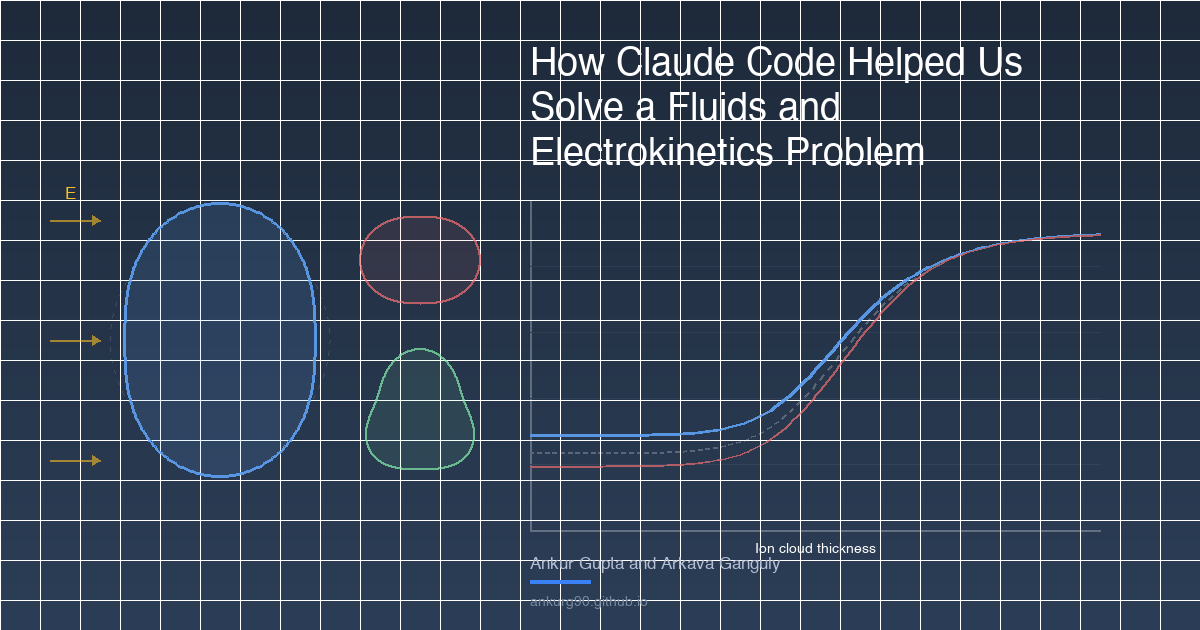
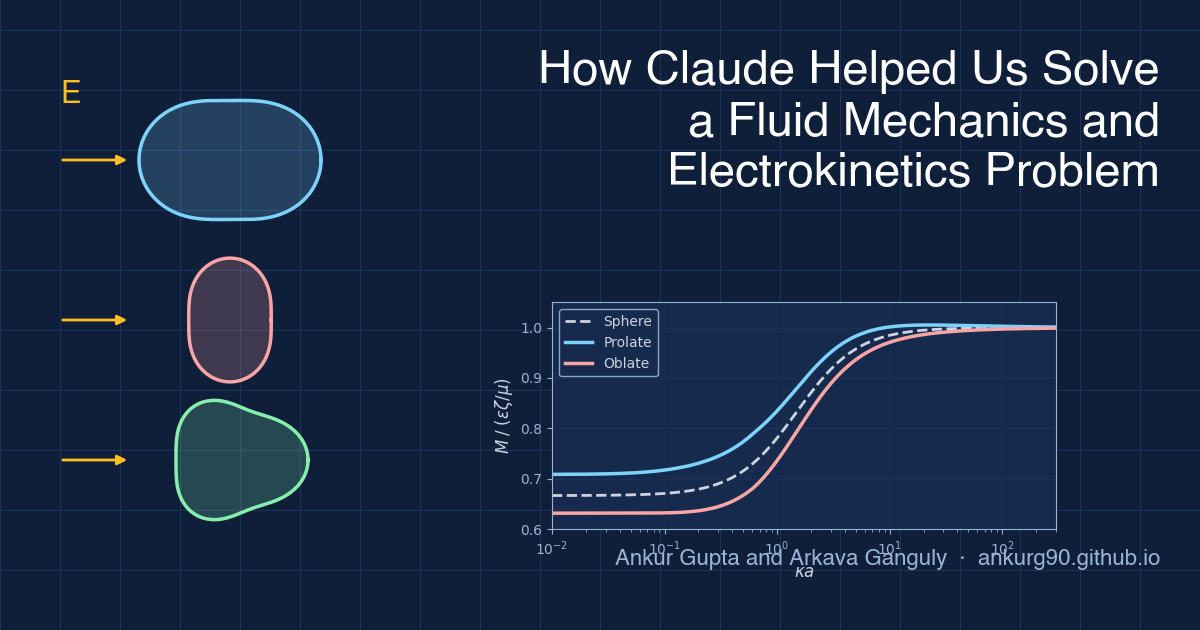
Regenerate OG card with corrected title
The old assets/og-blog.png had 'How Claude Code Helped Us Solve a
Fluids and Electrokinetics Problem' baked into it as a static PNG, so
even after the page title was updated to 'Claude' (no 'Code') the
shared link previews still showed the old title.

This regenerates the 1200x630 card from scratch with matplotlib so the
title matches the page exactly: 'How Claude Helped Us Solve a Fluid
Mechanics and Electrokinetics Problem'. The visual layout mirrors the
original: dark navy graph-paper background, three deformed shapes with
horizontal E-field arrows on the left, and a mobility-vs-kappa-a plot
on the right with sphere/prolate/oblate curves.

Bumped the og:image and twitter:image URLs to '?v=2' so social cache
scrapers (Twitter/X, LinkedIn, Slack, iMessage) treat it as a new
asset and refetch. The generation script lives in /tmp/make_og_blog.py
locally; not committed since this is a one-off.

diff --git a/blog/electrophoresis-shape/index.html b/blog/electrophoresis-shape/index.html
@@ -8,13 +8,13 @@
 <!-- Social sharing thumbnail -->
 <meta property="og:title" content="How Claude Helped Us Solve a Fluid Mechanics and Electrokinetics Problem">
 <meta property="og:description" content="We used AI to solve a mathematical physics problem on how particle shape affects electrophoretic mobility. Includes interactive visualizations.">
-<meta property="og:image" content="https://ankurg90.github.io/assets/og-blog.png">
+<meta property="og:image" content="https://ankurg90.github.io/assets/og-blog.png?v=2">
 <meta property="og:url" content="https://ankurg90.github.io/blog/electrophoresis-shape/">
 <meta property="og:type" content="article">
 <meta name="twitter:card" content="summary_large_image">
 <meta name="twitter:title" content="How Claude Helped Us Solve a Fluid Mechanics and Electrokinetics Problem">
 <meta name="twitter:description" content="We used AI to solve a mathematical physics problem on how particle shape affects electrophoretic mobility.">
-<meta name="twitter:image" content="https://ankurg90.github.io/assets/og-blog.png">
+<meta name="twitter:image" content="https://ankurg90.github.io/assets/og-blog.png?v=2">
 
 <link rel="preconnect" href="https://fonts.googleapis.com">
 <link rel="preconnect" href="https://fonts.gstatic.com" crossorigin>
